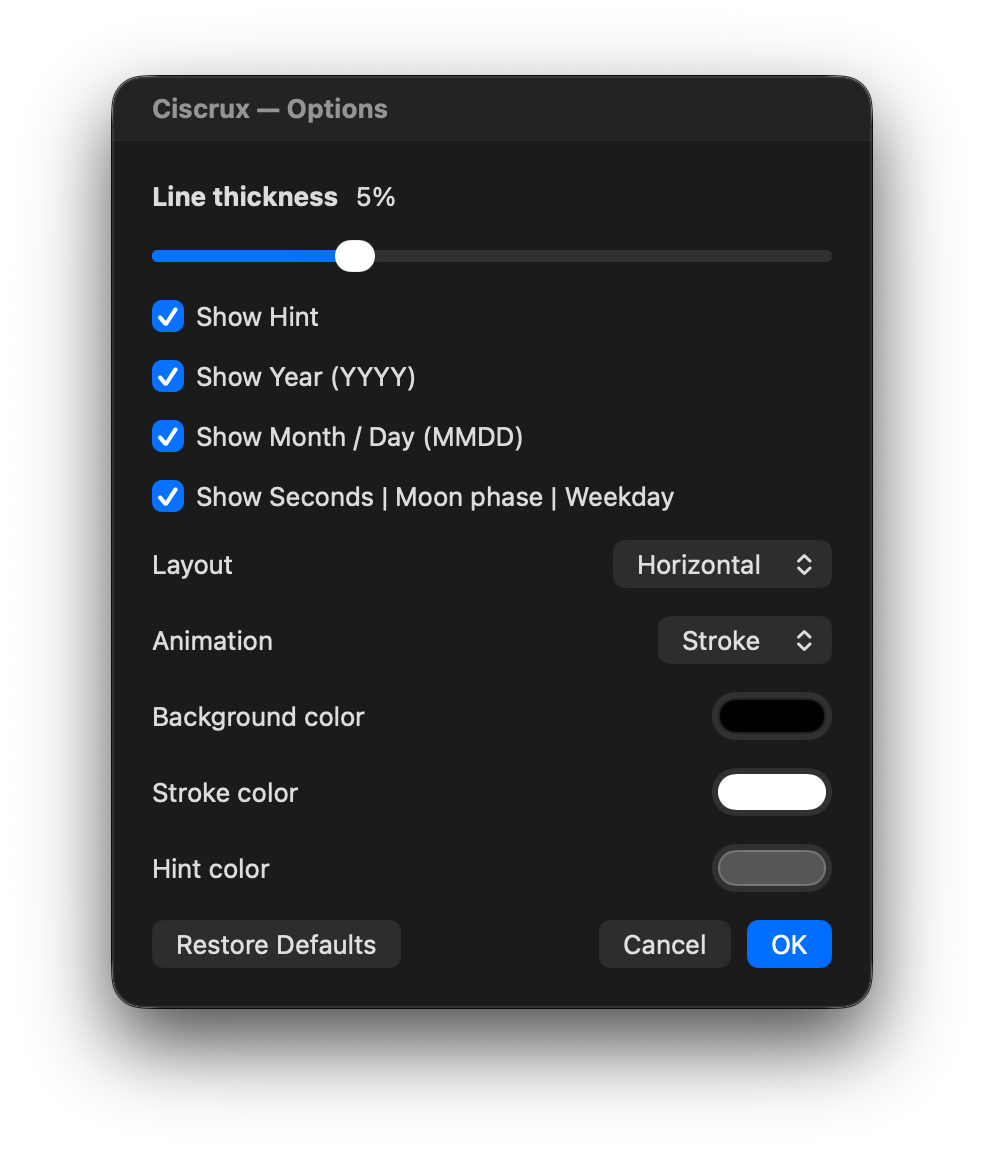
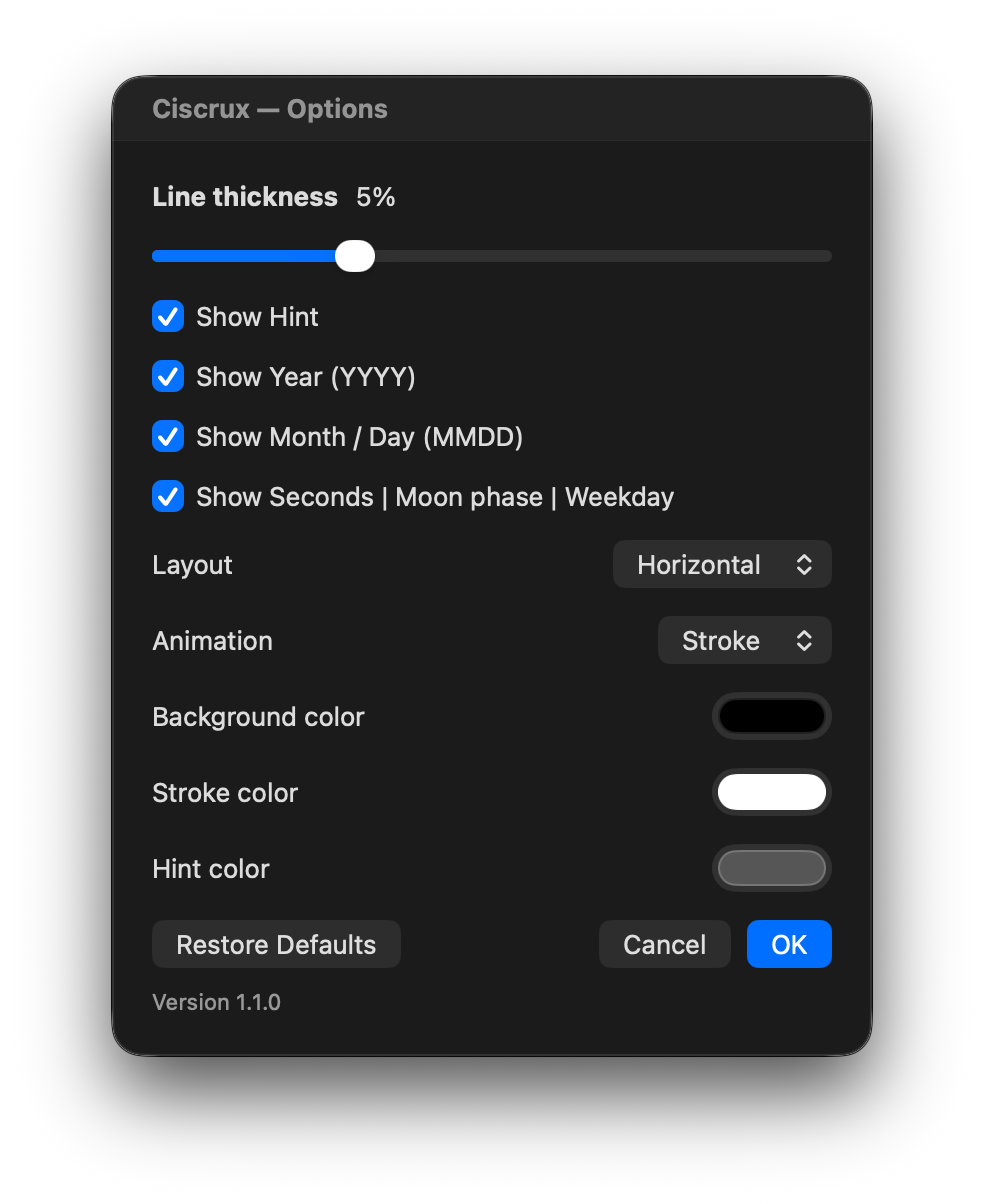
Ask for the version number in reports; show it in the Options screenshot

diff --git a/README.md b/README.md
@@ -67,7 +67,7 @@ Update with `brew upgrade --cask ciscrux`. Uninstall with `brew uninstall --cask
 
 ## Feedback
 
-Report problems and ideas in [Issues](../../issues). The source code is not public.
+Report problems and ideas in [Issues](../../issues), and include the version number shown at the bottom of the Options window. The source code is not public.
 
 ## Contributors
 

diff --git a/README-zh_TW.md b/README-zh_TW.md
@@ -69,7 +69,7 @@ brew install --cask vulcanshen/tap/ciscrux
 
 ## 意見回饋
 
-問題與建議請到 [Issues](../../issues) 回報。原始碼不公開。
+問題與建議請到 [Issues](../../issues) 回報，並附上版本號，版本號寫在選項視窗的左下角。原始碼不公開。
 
 ## 貢獻者
 
